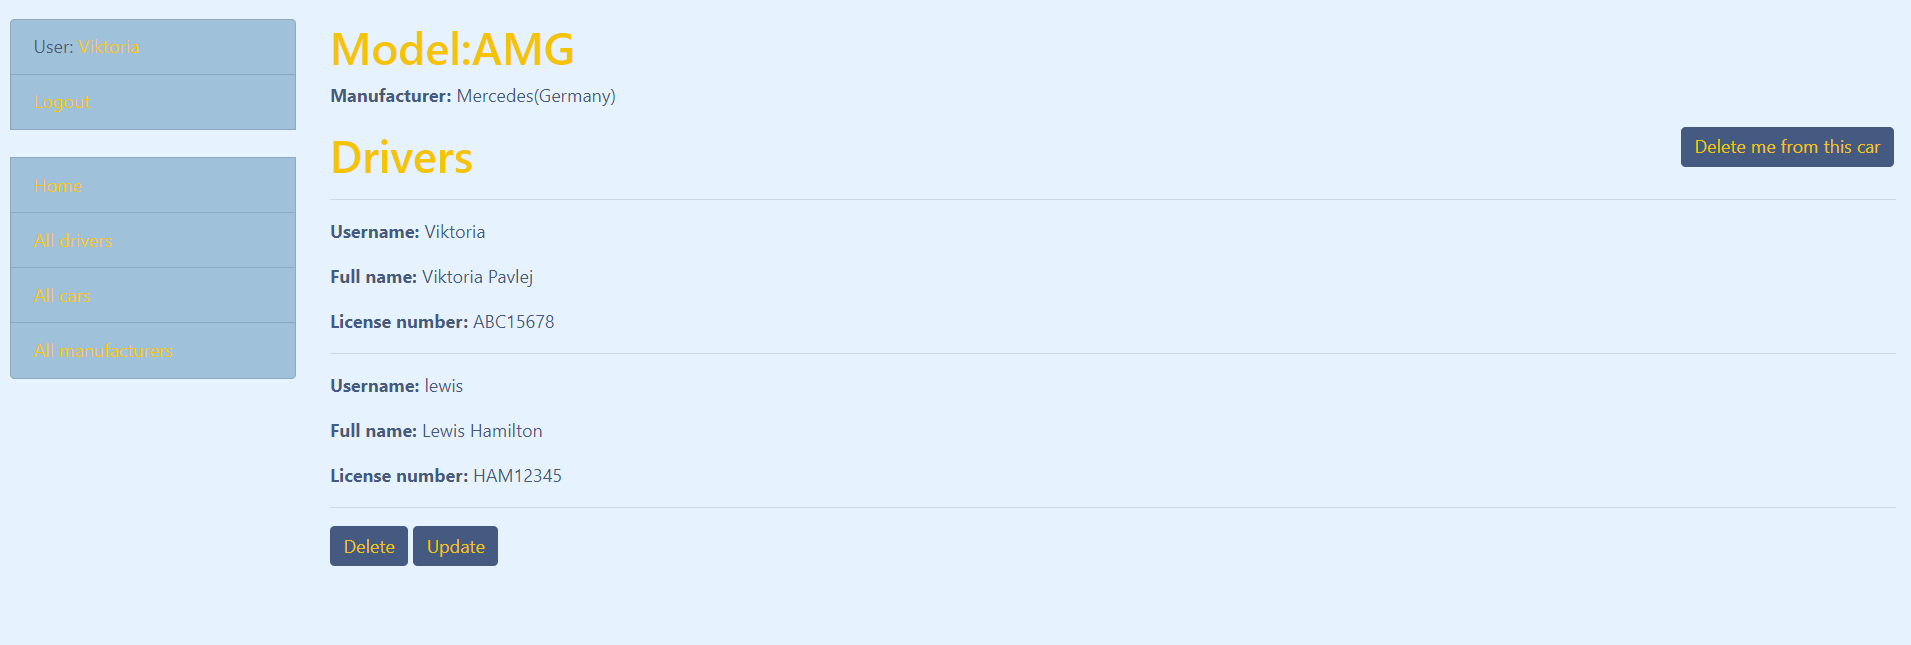
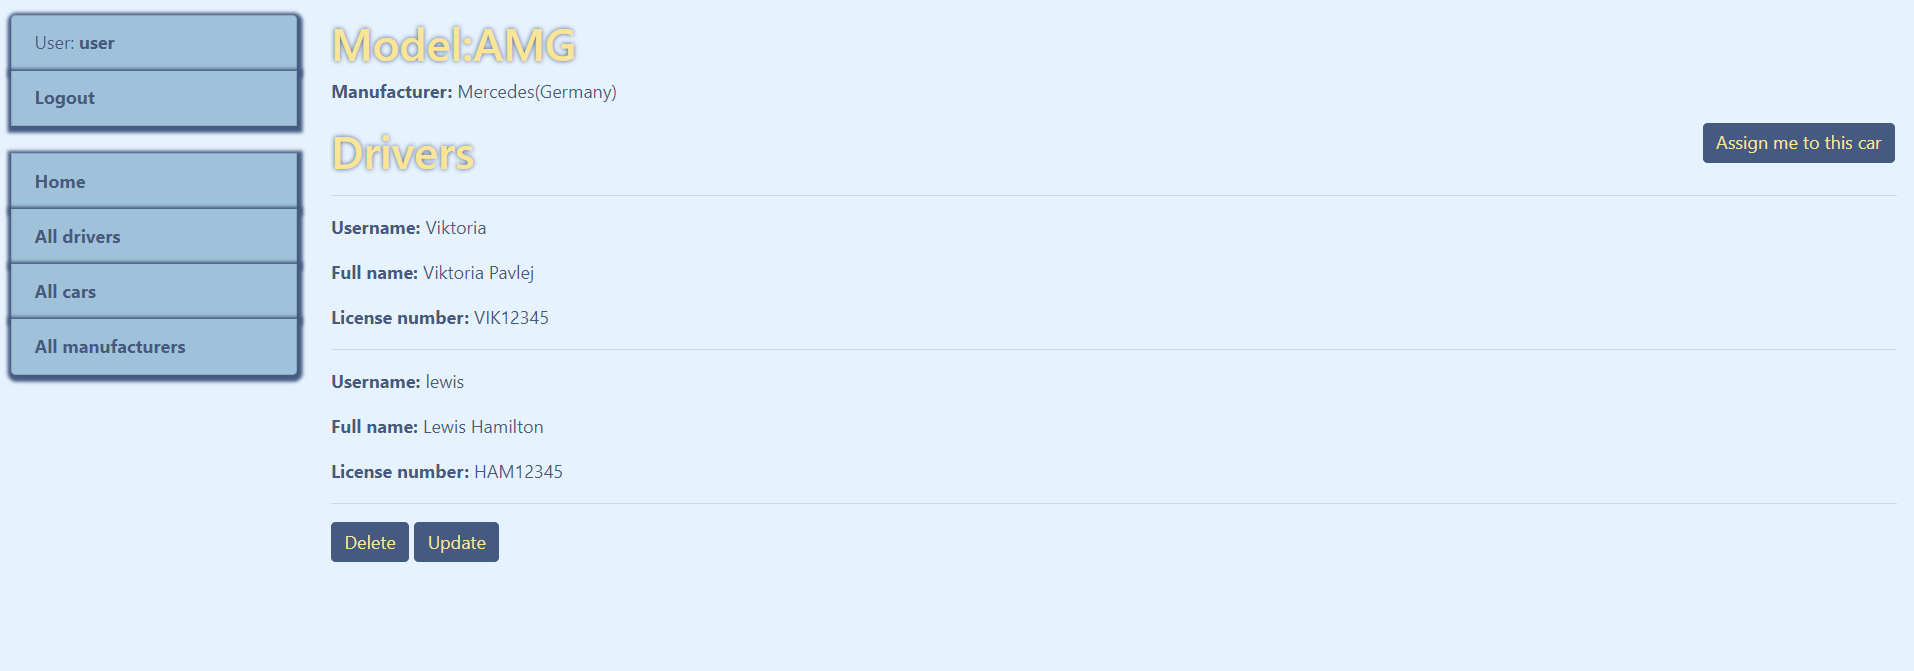
Changed colors and styles

Changed region(s): [[0.0, 0.0, 0.3396, 0.7442], [0.1544, 0.7752, 0.2779, 0.8992], [0.8645, 0.186, 1.0, 0.2791]]

diff --git a/static/css/styles.css b/static/css/styles.css
@@ -11,26 +11,34 @@ body {
 
 .sidebar {
     background-color: #98c1d9;
+    color: #3d5a80;
+    box-shadow: 1px 2px 3px 4px #3d5a80;
 }
 
 a {
-    color: #fdc500;
+    color: #3d5a80;
+    font-weight: bold;
+}
+
+a:hover {
+    color: #ffe599;
 }
 
 .btn {
     background-color: #3d5a80;
     border: none;
-    color: #fdc500;
+    color: #ffe599;
 }
 
 h1, h2, h3, h4 {
-    color: #fdc500;
+    color: #ffe599;
+    text-shadow: 0 0 5px #3d5a80;
 }
 
 .page-item.active .page-link {
    background: #3d5a80;
    border: none;
-   color: #fdc500;
+   color: #ffe599;
 }
 
 .page-item a {

diff --git a/templates/taxi/index.html b/templates/taxi/index.html
@@ -2,7 +2,7 @@
 
 {% block content %}
     <h1>Taxi Service Home</h1>
-    <p>Welcome to Best Taxi Ever!</p>
+    <p>Welcome to the Best Taxi Ever!</p>
     <h2>Dynamic content</h2>
     <p>The Taxi service has the following record counts:</p>
     <ul>

diff --git a/taxi/forms.py b/taxi/forms.py
@@ -20,7 +20,7 @@ class DriverCreationForm(UserCreationForm):
 
     class Meta(UserCreationForm.Meta):
         model = Driver
-        fields = UserCreationForm.Meta.fields + ('first_name', 'last_name', 'license_number',)
+        fields = UserCreationForm.Meta.fields + ("first_name", "last_name", "license_number",)
 
     def clean_license_number(self):
         return license_validation(self.cleaned_data["license_number"])

diff --git a/README.md b/README.md
@@ -21,7 +21,7 @@ Python3 must be already installed
 git clone https://github.com/pavlejviki/taxi-service-mate
 cd taxi-service-mate
 python3 -m venv venv
-source venv/bin/activate
+source venv/Scripts/activate (on Windows) # source venv/bin/activate (on macOS)
 pip install -r requirements.txt
 python manage.py runserver #starts Django Server
 ```
@@ -34,7 +34,7 @@ python manage.py runserver #starts Django Server
 
 ## Demo
 
-![Website Interface](homepage.png)
+![Website Interface](home_page.png)
 ![Website Interface](manufacturer_list.png)
 ![Website Interface](driver_detail.png)
 ![Website Interface](car_detail.png)
